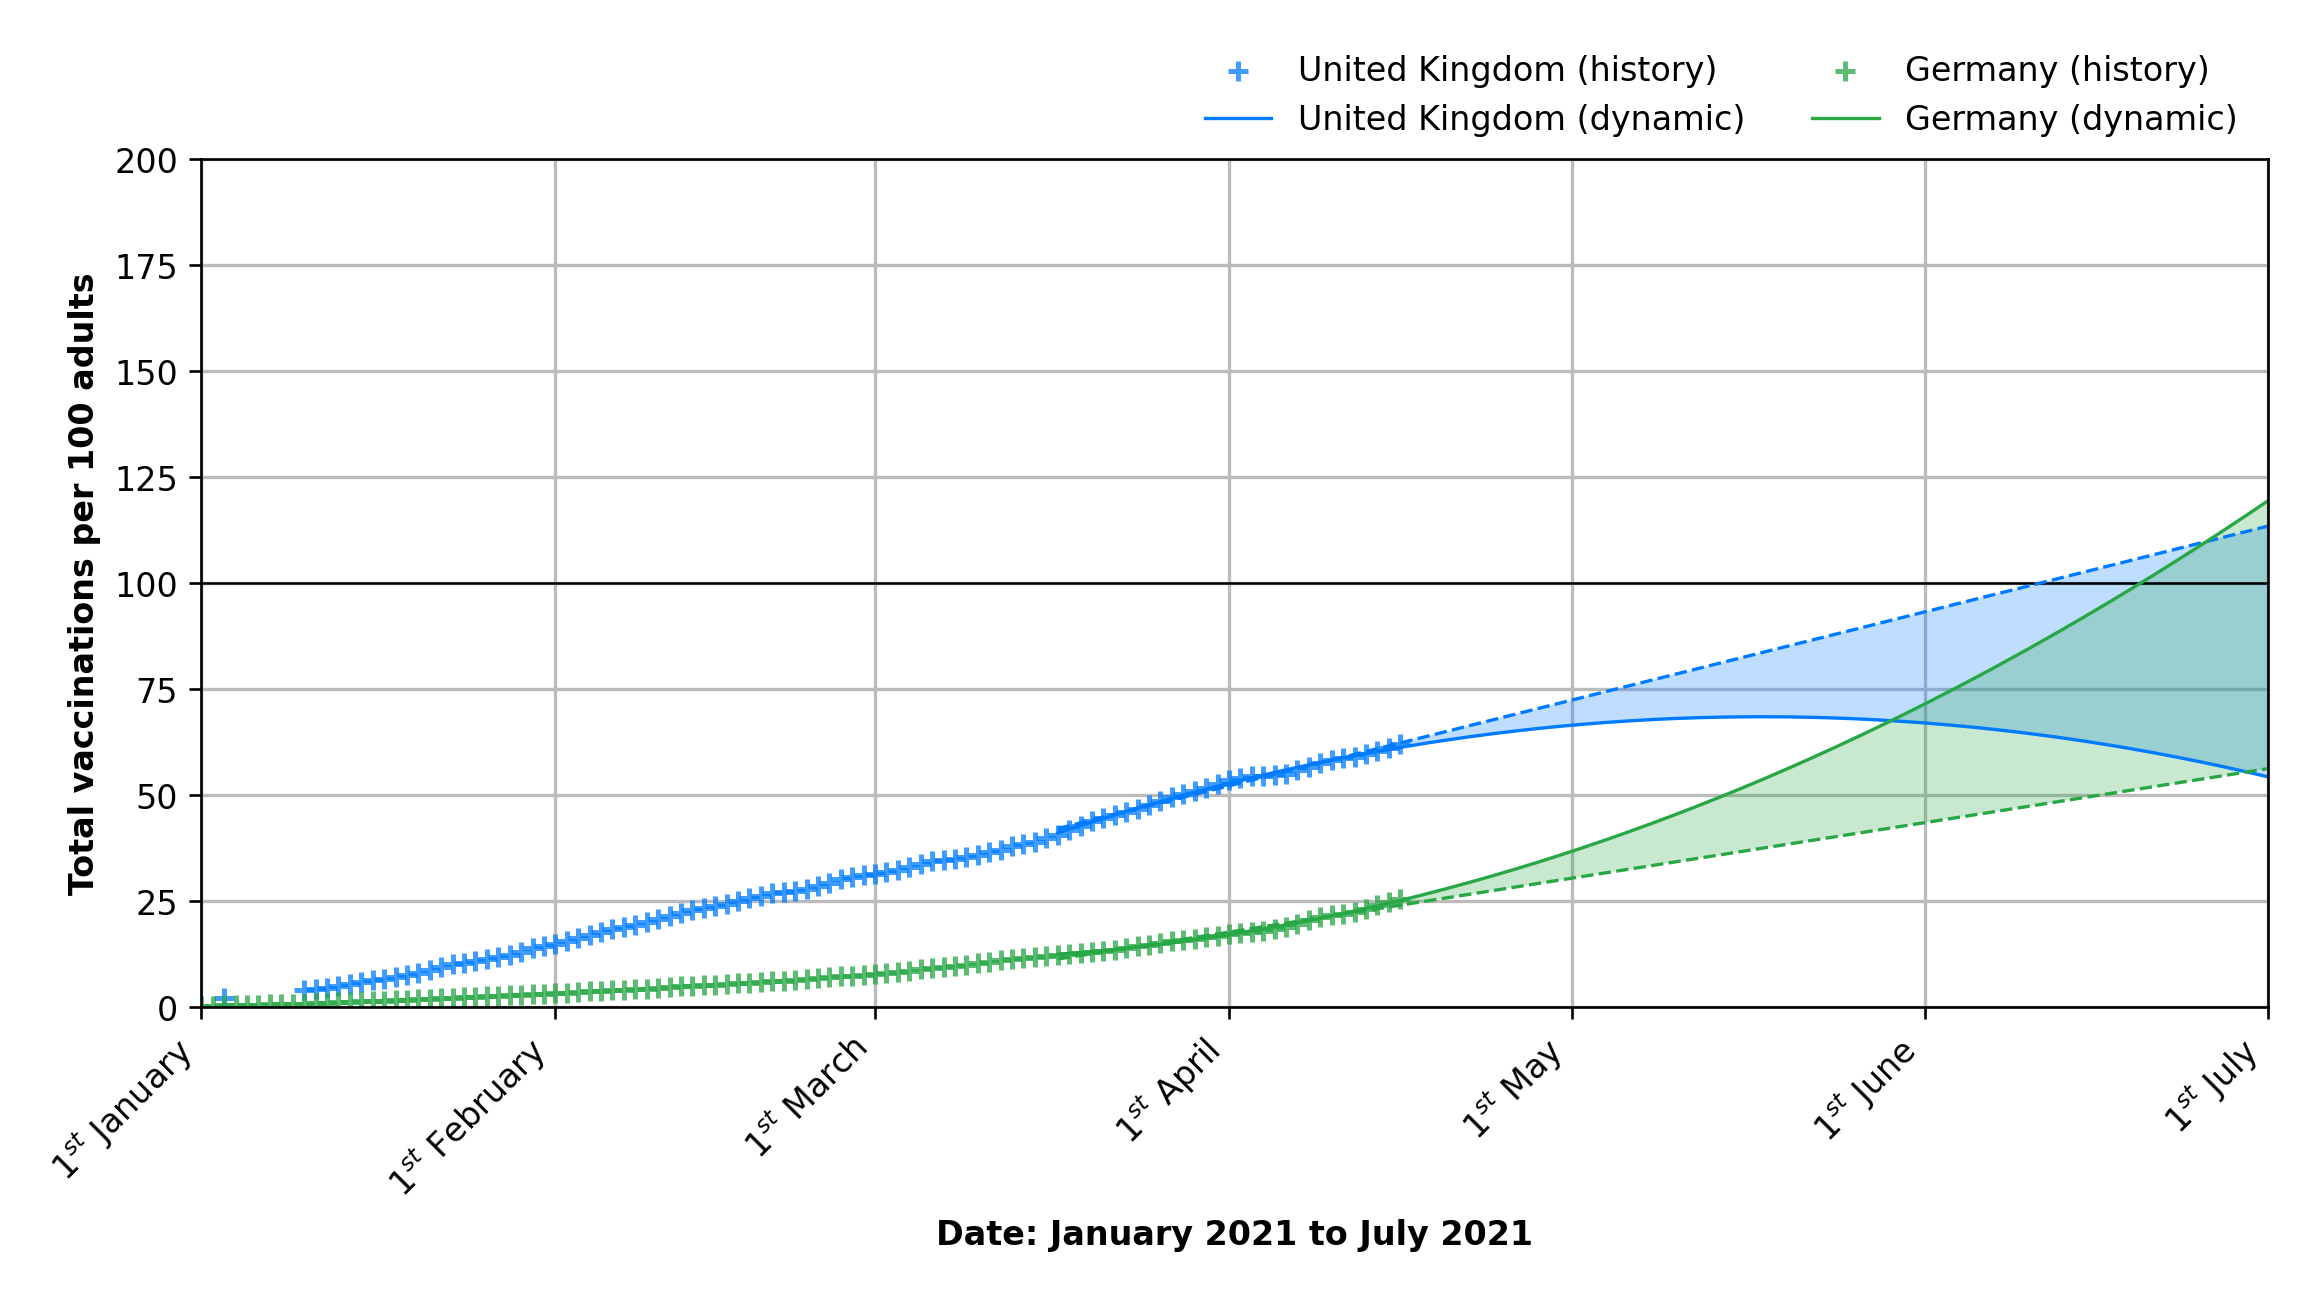
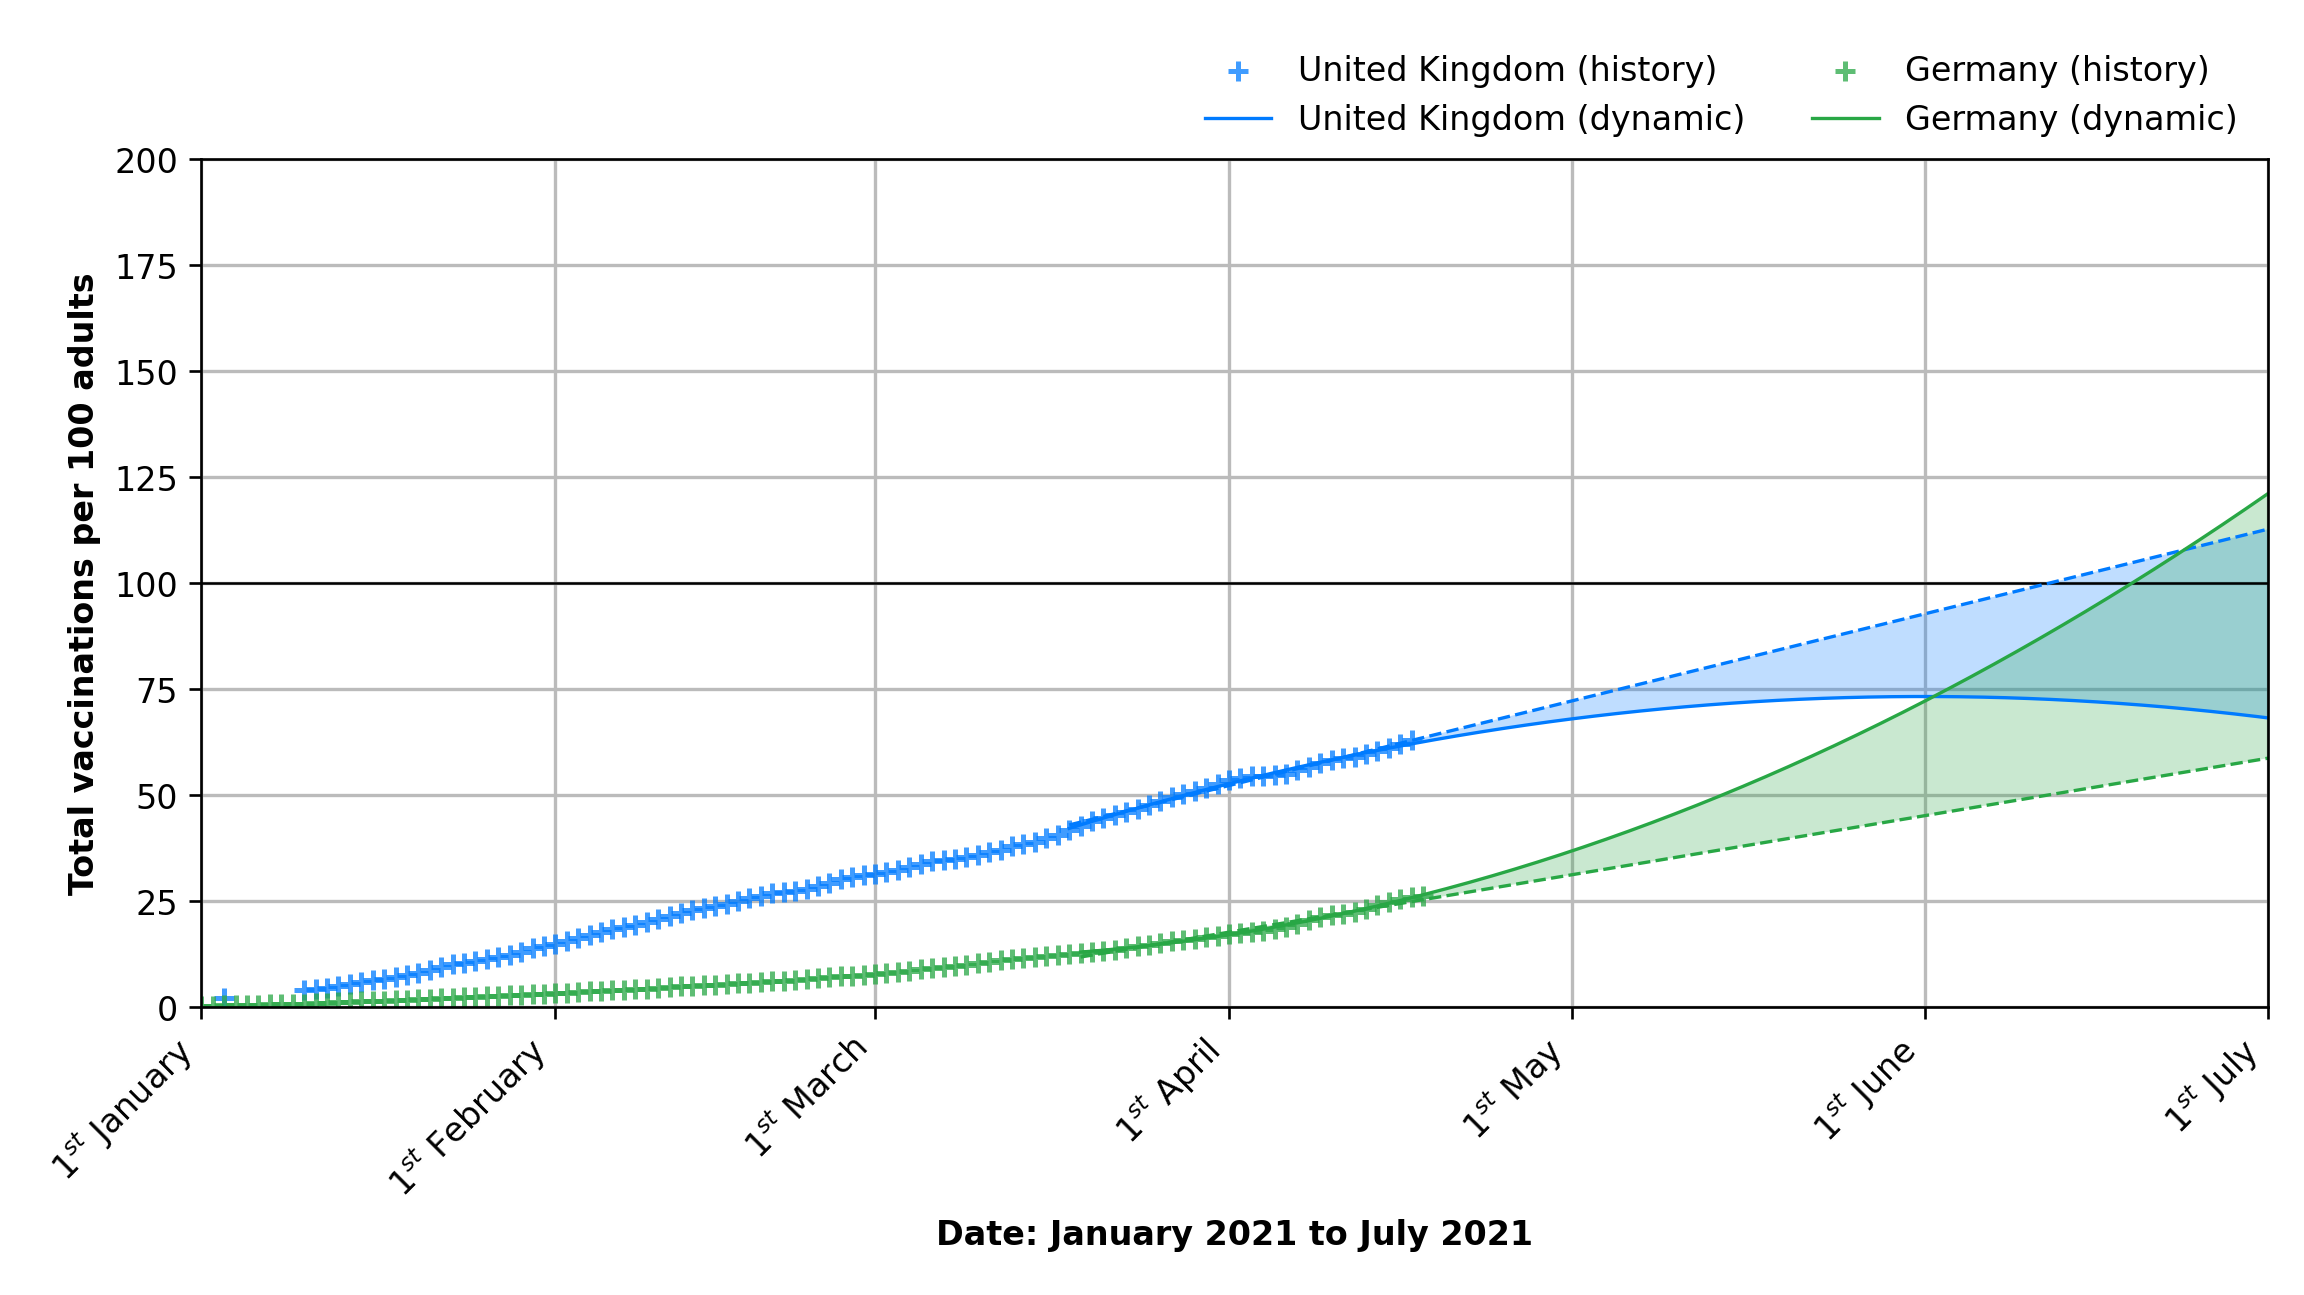
Deploying to gh-pages from @ lambdapioneer/vactrend@0b151e50bae144ff27c39ffb07cd62d871ed93a9 🚀

diff --git a/index.html b/index.html
@@ -37,13 +37,13 @@
                 <div class="card">
                     <div class="card-header">🇬🇧 United Kingdom</div>
                     <div class="card-body">
-                        <h3 class="font-weight-bold" style="color: #007bff">62.03 <small>(+0.89/d)</small></h3>
+                        <h3 class="font-weight-bold" style="color: #007bff">63.02 <small>(+0.94/d)</small></h3>
                         <p class="mt-n2">Vaccinations per 100 adults</p>
                         <h3 class=" font-weight-bold">12 June 2021</h3>
                         <p class="mt-n2">Earliest day: 100 vacc. per 100 adults</p>
-                        <h3 class=" font-weight-bold">07 November 2021</h3>
+                        <h3 class=" font-weight-bold">10 November 2021</h3>
                         <p class="mt-n2">Earliest day: 200 vacc. per 100 adults</p>
-                        <p class="card-text"><small class="text-muted">Last data from 16 April 2021.</small></p>
+                        <p class="card-text"><small class="text-muted">Last data from 17 April 2021.</small></p>
                     </div>
                 </div>
             </div>
@@ -52,13 +52,13 @@
                 <div class="card">
                     <div class="card-header">🇩🇪 Germany</div>
                     <div class="card-body">
-                        <h3 class="font-weight-bold" style="color: #28a745">25.46 <small>(+0.67/d)</small></h3>
+                        <h3 class="font-weight-bold" style="color: #28a745">26.19 <small>(+0.30/d)</small></h3>
                         <p class="mt-n2">Vaccinations per 100 adults</p>
                         <h3 class=" font-weight-bold">20 June 2021</h3>
                         <p class="mt-n2">Earliest day: 100 vacc. per 100 adults</p>
-                        <h3 class=" font-weight-bold">09 August 2021</h3>
+                        <h3 class=" font-weight-bold">07 August 2021</h3>
                         <p class="mt-n2">Earliest day: 200 vacc. per 100 adults</p>
-                        <p class="card-text"><small class="text-muted">Last data from 16 April 2021.</small></p>
+                        <p class="card-text"><small class="text-muted">Last data from 18 April 2021.</small></p>
                     </div>
                 </div>
             </div>
